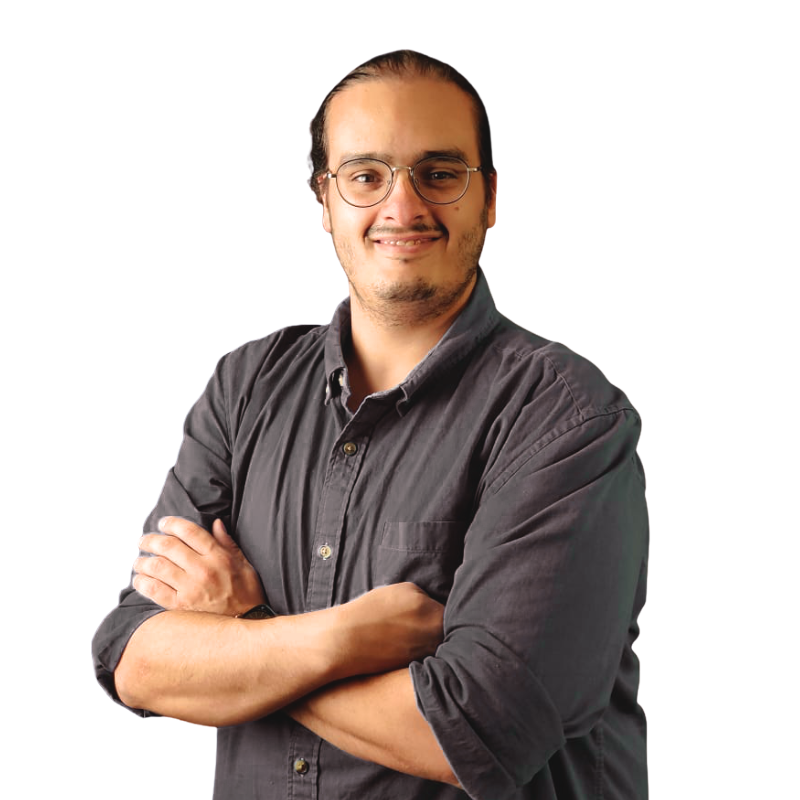
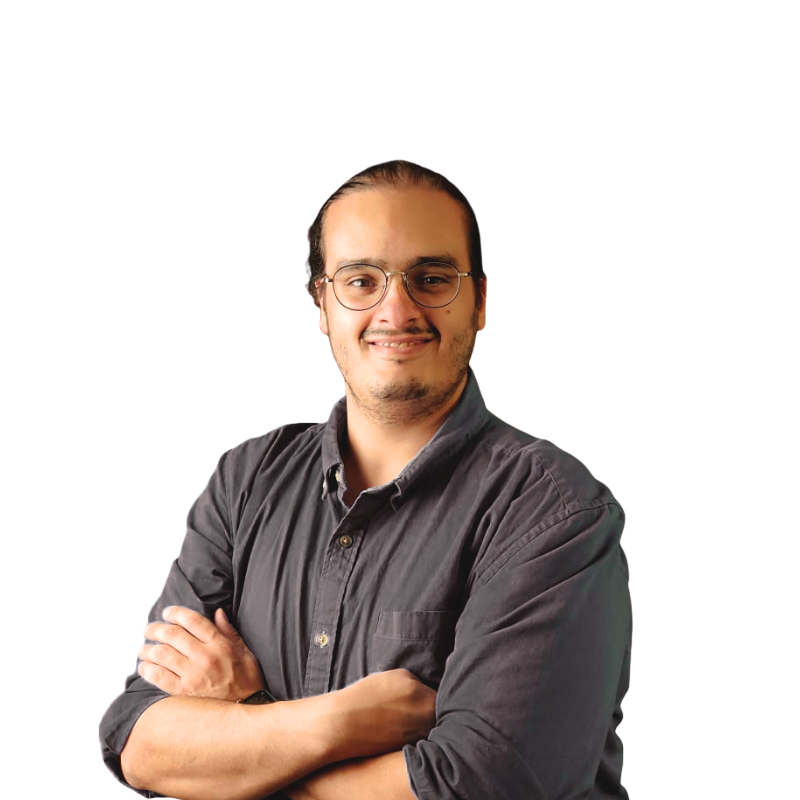
Update company member images and SalesforceLookup component
- Updated 6 company member images:
  - Andrea Makary (Technical Architect)
  - Jenny Maged (Salesforce Consultant)
  - John Shedoudy (Salesforce Consultant)
  - Mariam Mahmoud (Salesforce Consultant)
  - Marina Danial (CFO Cloudastick and COO of Techsa)
  - Omar Bazid (Salesforce Consultant)

- Updated SalesforceLookup component

diff --git a/src/components/SalesforceLookup.tsx b/src/components/SalesforceLookup.tsx
@@ -1,4 +1,4 @@
-import React, { useState, useEffect, useRef } from 'react';
+import React, { useState, useEffect, useRef, useCallback } from 'react';
 import { Search, Loader2, Building2, Briefcase, FolderKanban, X } from 'lucide-react';
 import { Input } from './ui/input';
 import { Button } from './ui/button';
@@ -90,7 +90,7 @@ const SalesforceLookup: React.FC<SalesforceLookupProps> = ({
   const Icon = getObjectIcon();
 
   // Search Salesforce records
-  const searchRecords = async (term: string) => {
+  const searchRecords = useCallback(async (term: string) => {
     if (!authData || !term || term.trim().length < 2) {
       setResults([]);
       return;
@@ -135,14 +135,15 @@ const SalesforceLookup: React.FC<SalesforceLookupProps> = ({
       // Parse successful response
       let data;
       try {
-        const responseText = await response.text();
-        data = JSON.parse(responseText);
+        data = await response.json();
       } catch (parseError) {
         console.error('Failed to parse response:', parseError);
         throw new Error('Invalid response from server');
       }
 
-      setResults(data.records || []);
+      // Handle both direct records array and wrapped response format
+      const records = data.records || (Array.isArray(data) ? data : []);
+      setResults(records);
       setShowResults(true);
     } catch (error: any) {
       console.error('Error searching Salesforce records:', error);
@@ -165,7 +166,7 @@ const SalesforceLookup: React.FC<SalesforceLookupProps> = ({
     } finally {
       setIsSearching(false);
     }
-  };
+  }, [authData, objectType, toast]);
 
   // Handle search input with debounce
   useEffect(() => {
@@ -187,7 +188,7 @@ const SalesforceLookup: React.FC<SalesforceLookupProps> = ({
         clearTimeout(searchTimeoutRef.current);
       }
     };
-  }, [searchTerm, authData]);
+  }, [searchTerm, searchRecords]);
 
   // Handle record selection
   const handleSelectRecord = (record: SalesforceRecord) => {
